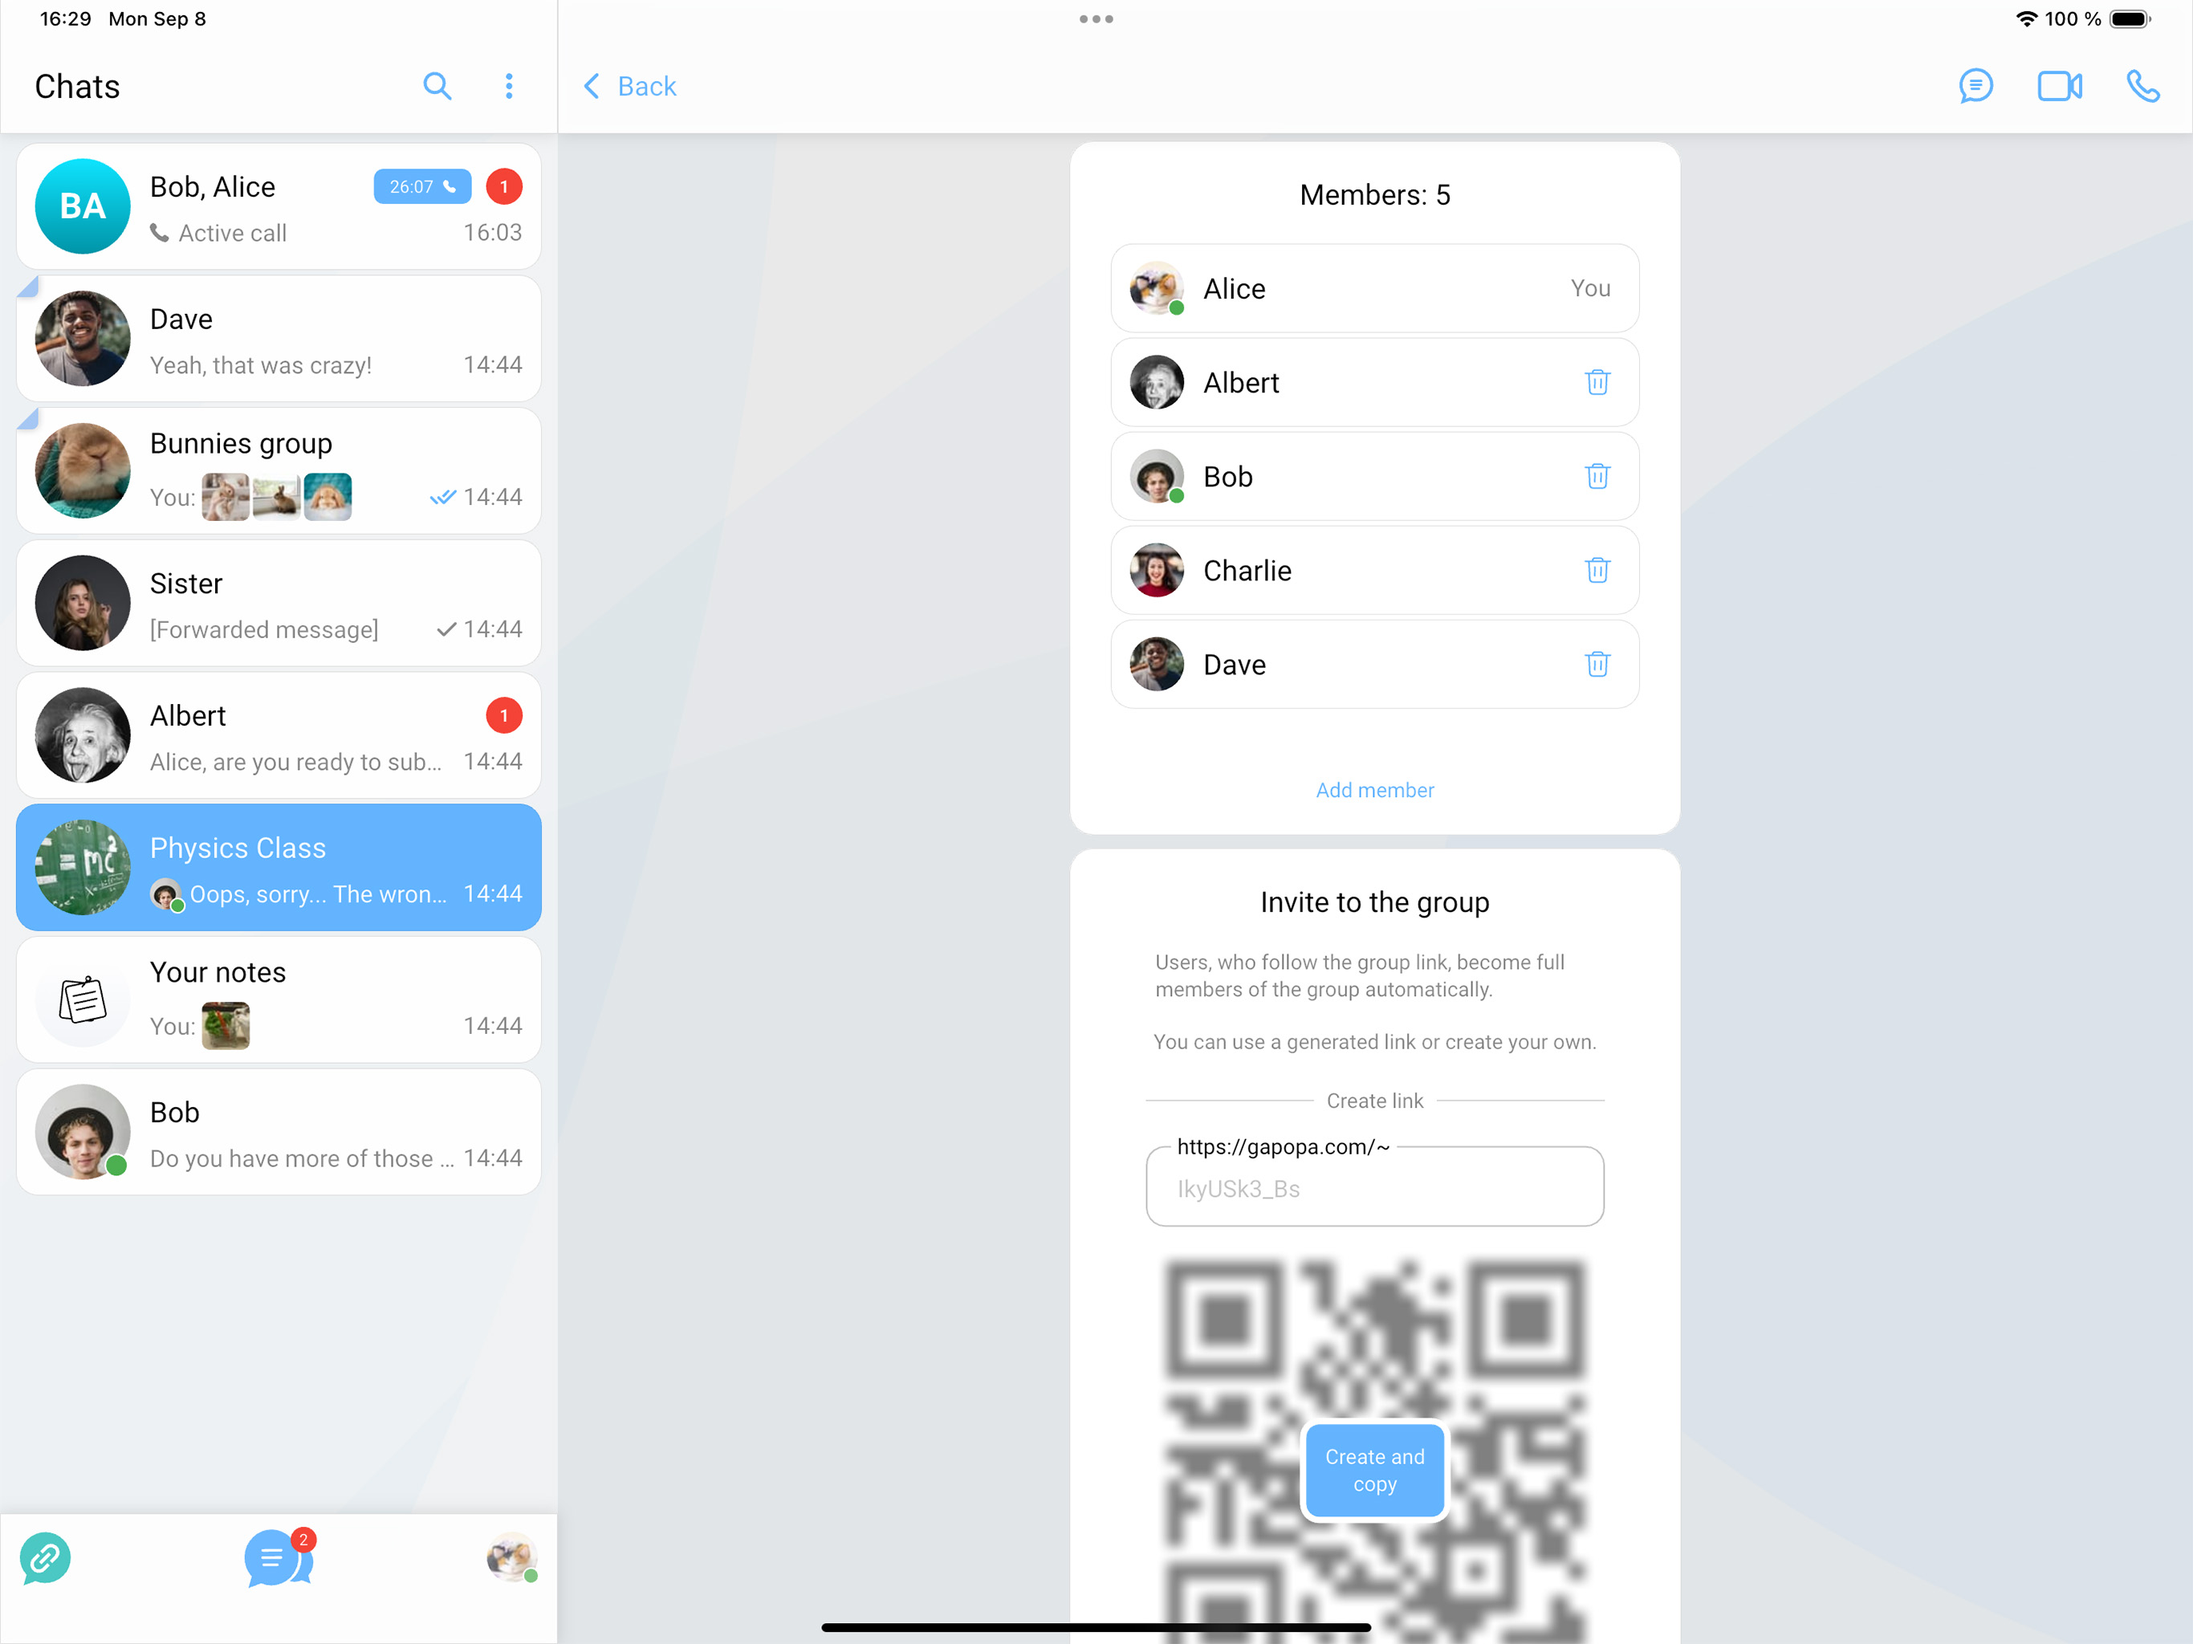
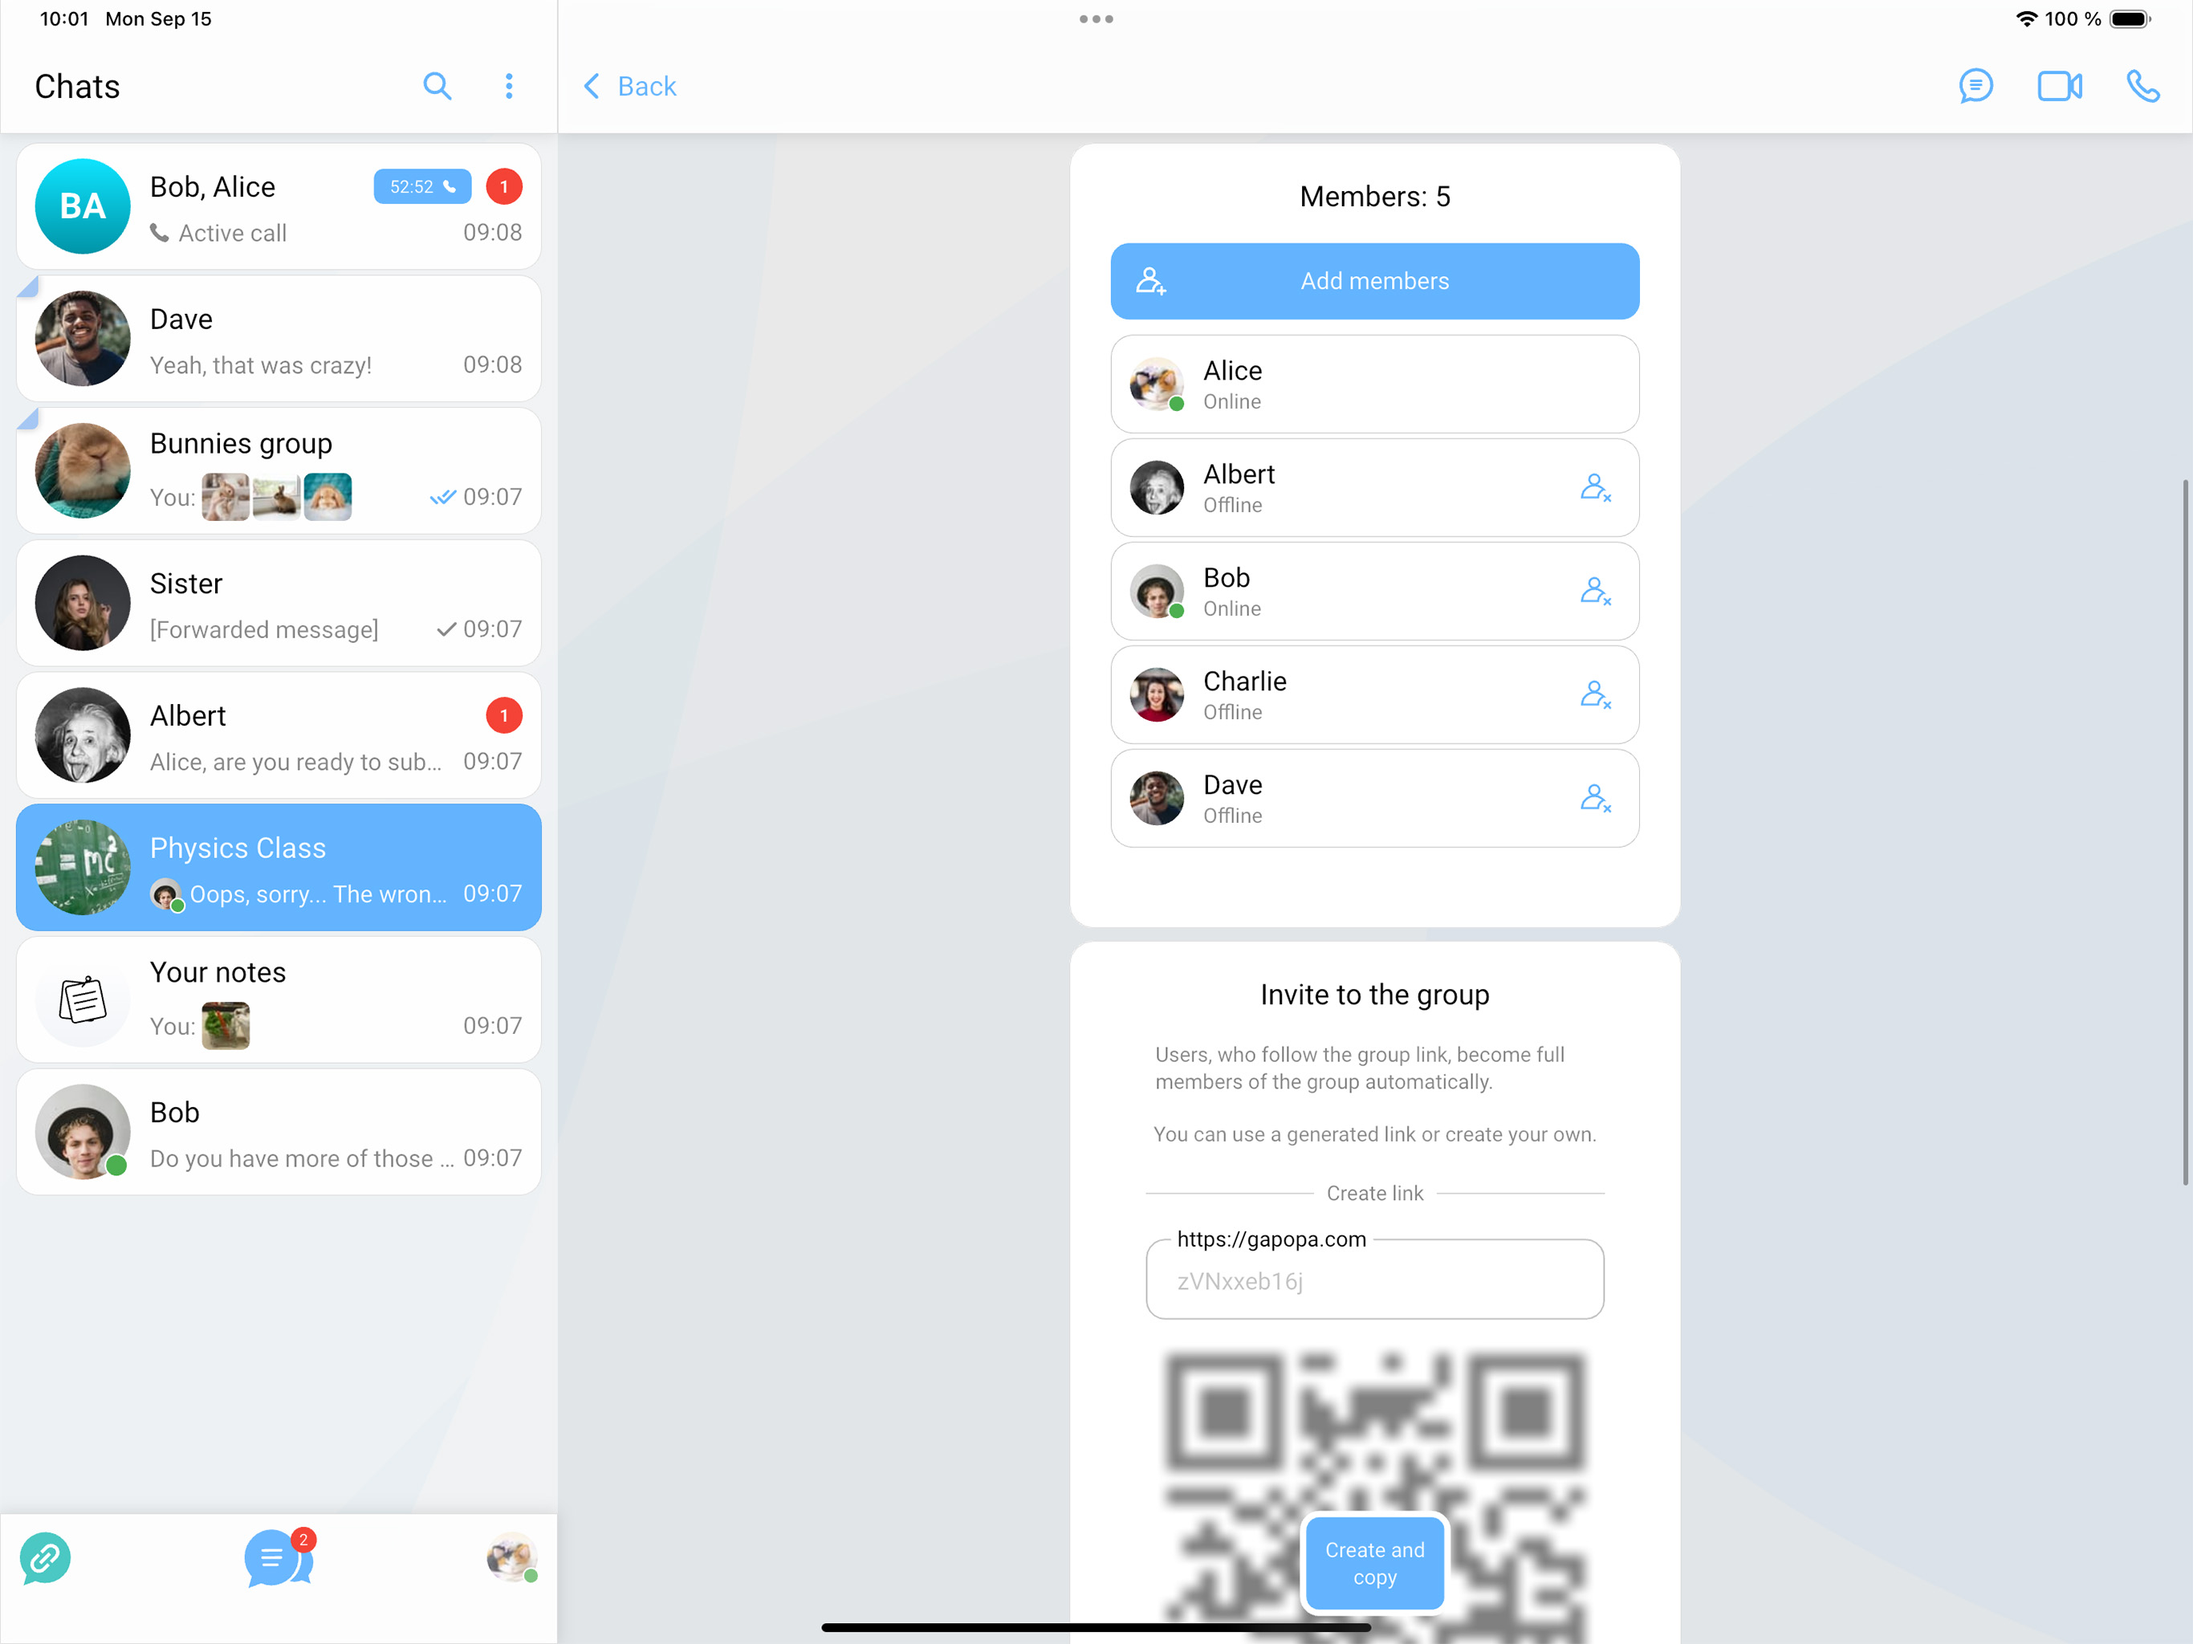
Prepare 0.6.2 project release (#1417)
Additionally:
- remove border around `CustomAppBar` in `Chat` when searching

diff --git a/lib/ui/page/home/page/chat/view.dart b/lib/ui/page/home/page/chat/view.dart
@@ -289,12 +289,6 @@ class ChatView extends StatelessWidget {
                           return const StyledBackButton();
                         }),
                       ],
-                      border:
-                          (c.searching.value ||
-                              c.search.isFocused.value == true ||
-                              c.query.value?.isNotEmpty == true)
-                          ? Border.all(color: style.colors.primary, width: 2)
-                          : null,
                       actions: [
                         Obx(() {
                           if (c.searching.value) {

diff --git a/release_notes/ru-RU.md b/release_notes/ru-RU.md
@@ -1,5 +1,3 @@
-- Обновлён дизайн медиа плеера.
-- Обновлён дизайн профиля пользователя и чата.
-- Пробелы в Gapopa ID заменены на дефисы.
-- Изменена высота шапки и навигации приложения при наличии отступов сверху/снизу на телефоне.
+- Обновлён дизайн профиля группы.
+- Улучшено взаимодействие с медиа плеером.
 - Исправления ошибок и улучшения производительности.

diff --git a/release_notes/es-ES.md b/release_notes/es-ES.md
@@ -1,5 +1,3 @@
-- Reproductor multimedia rediseñado.
-- Chat y perfiles de usuario rediseñados.
-- Barra de aplicaciones y barra de navegación rediseñadas para expandirse a la zona segura de la cuenta.
-- Se reemplazaron los espacios en Gapopa ID con guiones.
+- Perfil de chat rediseñado.
+- Experiencia de usuario mejorada con el reproductor multimedia.
 - Corrección de errores y mejoras de rendimiento.

diff --git a/CHANGELOG.md b/CHANGELOG.md
@@ -6,10 +6,10 @@ All user visible changes to this project will be documented in this file. This p
 
 
 
-## [0.7.0] · 2025-??-??
-[0.7.0]: /../../tree/v0.7.0
+## [0.6.2] · 2025-09-15
+[0.6.2]: /../../tree/v0.6.2
 
-[Diff](/../../compare/v0.6.1...v0.7.0) | [Milestone](/../../milestone/46)
+[Diff](/../../compare/v0.6.1...v0.6.2) | [Milestone](/../../milestone/46)
 
 ### Changed
 

diff --git a/release_notes/en-US.md b/release_notes/en-US.md
@@ -1,5 +1,3 @@
-- Redesigned media player.
-- Redesigned chat and user profiles.
-- Redesigned app bar and navigation bar to expand in height to account safe area.
-- Replaced spaces in Gapopa ID with hyphens.
+- Redesigned chat profile.
+- Improved media player user experience.
 - Bug fixes and performance improvements.
